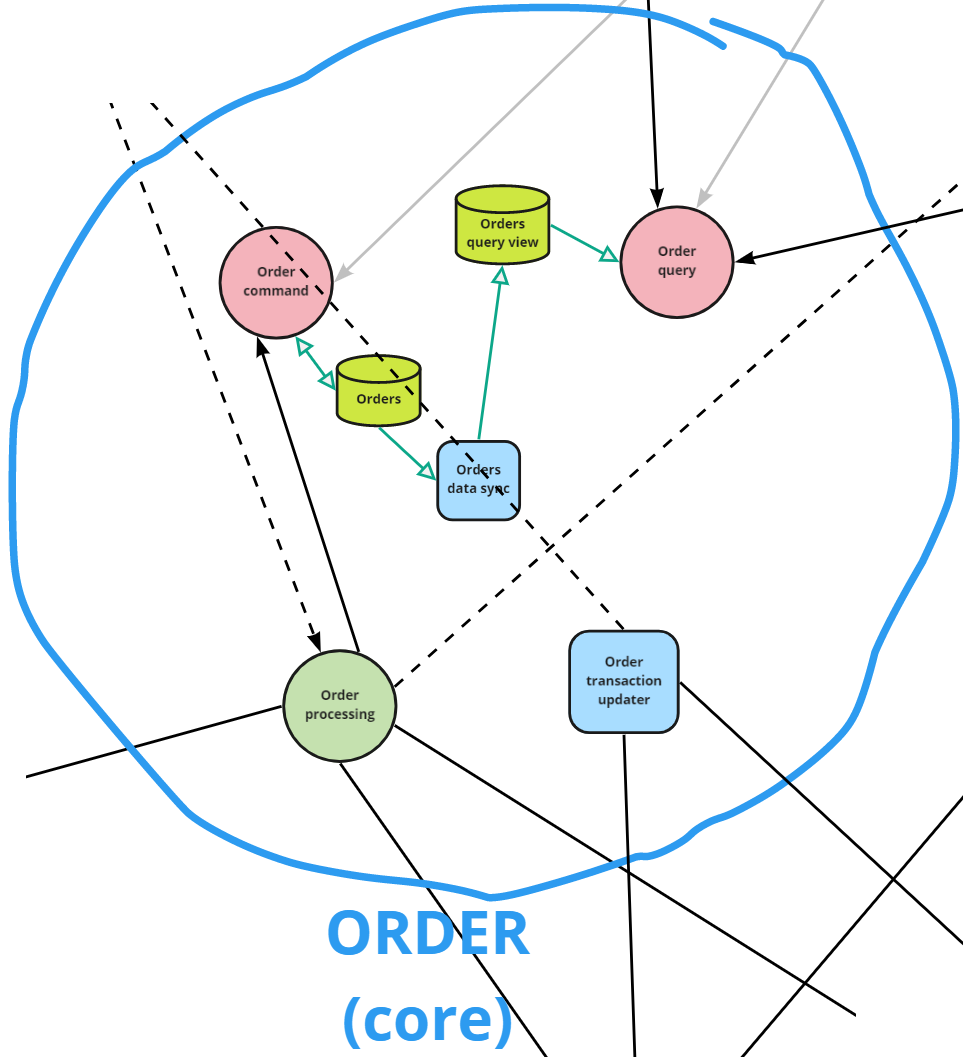
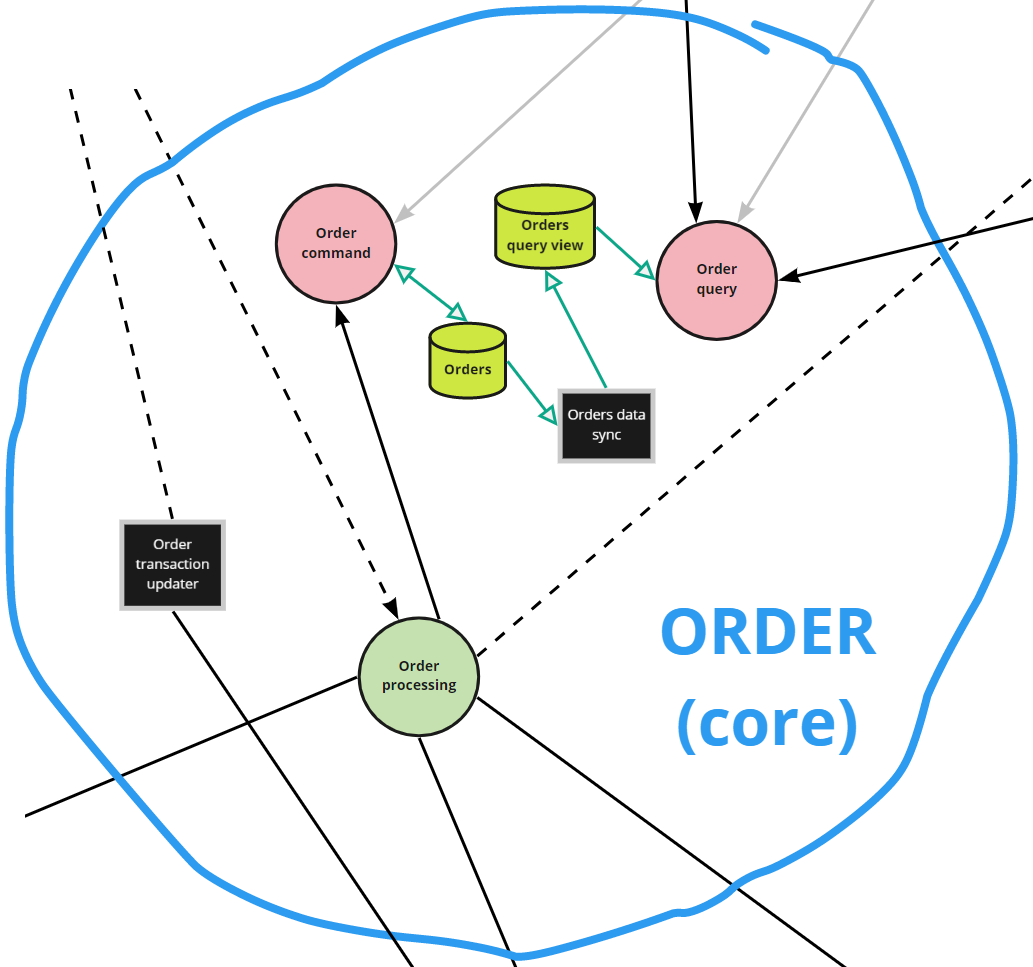
new symbol for batch program

diff --git a/README.md b/README.md
@@ -50,7 +50,7 @@ architecture styles.
 
 <table>
 <tr>
-    <td align="center"><a href="architecture/user-account-mgmt-microservice-view.md">User Account Management - microservice view<br><img src="images/user-account-mgmt-microservice-view-primary.png" width="200"></a></td>
+    <td align="center"><a href="architecture/user-account-mgmt-microservice-view.md">User Account Management - microservice view<br><img src="images/user-account-mgmt-microservice-view-primary.jpg" width="200"></a></td>
     <td align="center"><a href="architecture/catalog-microservice-view.md">Catalog - microservice view<br>
         <img src="images/catalog-microservice-view-primary.png" width="200"></a>
     </td>
@@ -66,7 +66,7 @@ architecture styles.
 <tr>
     <td colspan="2" align="center">
         <a href="architecture/replenish-microservice-eda-view.md">Replenisher - microservice and EDA view<br>
-        <img src="images/replenish-microservice-eda-view-primary.png" width="200"><img src="images/replenish-microservices-eda-state-machine.png" width="200">
+        <img src="images/replenish-microservice-eda-view-primary.jpg" width="200"><img src="images/replenish-microservices-eda-state-machine.png" width="200">
         </a>
     </td>
 </tr>

diff --git a/architecture/aws-deployment-view.md b/architecture/aws-deployment-view.md
@@ -5,7 +5,7 @@ instructions on how to configure a K8S cluster on EKS using docker images in ECR
 - This [AWS doc page](https://docs.aws.amazon.com/eks/latest/userguide/eks-networking.html) describes restrictions and
 guidelines for EKS topology.   
 
-![AWS deployment view](../images/aws-deployment-view-primary.png)
+![AWS deployment view](../images/aws-deployment-view-primary.jpg)
 
 
 ## Element Catalog 
@@ -64,7 +64,7 @@ implemented using various languages and frameworks. For example, we can use the 
 framework.  
 - The various SNS topics seen in the EDA architecture views shall be configured in SNS. 
 
-![AWS deployment view](../images/sns-topic-symbol.png)
+![AWS deployment view](../images/topic-symbol.png)
  
 #### Availability zone A, Availability zone B
 - An [availability zone](https://docs.aws.amazon.com/AWSEC2/latest/UserGuide/using-regions-availability-zones.html#concepts-availability-zones) 

diff --git a/architecture/order-microservice-eda-view.md b/architecture/order-microservice-eda-view.md
@@ -11,7 +11,7 @@ processing an order. Key patterns used:
 - CQRS
 - Publish-subscribe (in the event-driven architecture) 
 
-![Order runtime view](../images/order-microservice-eda-view-primary.png)
+![Order runtime view](../images/order-microservice-eda-view-primary.jpg)
 ![Notation key](../images/notation-key-microservice-views.png)
 
 
@@ -84,7 +84,7 @@ from the [catalog](catalog-microservice-view.md).
 be picked up at a smart fridge location. 
 * The diagram uses the UML Sequence Diagram notation, except that we used our component symbols up on top instead of
 UML objects.   
-![Order Sequence Diagram](../images/order-microservice-eda-view-sd.png)
+![Order Sequence Diagram](../images/order-microservice-eda-view-sd.jpg)
 
  
 ## Related ADRs 

diff --git a/architecture/ddd-context-map.md b/architecture/ddd-context-map.md
@@ -5,9 +5,9 @@
 This architecture view is a [DDD Context Map](https://learning.oreilly.com/library/view/patterns-principles-and/9781118714706/c07.xhtml). 
 It shows how the Farmacy Food system is broken up into bounded contexts (BCs) and how they interact with each other. 
 
-![DDD Context Map](../images/ddd-context-map.png)
+![DDD Context Map](../images/ddd-context-map.jpg)
 
-![DDD Context Map](../images/ddd-context-map-key.png)
+![DDD Context Map](../images/ddd-context-map-key.jpg)
 
 
 _Subdomains_ reflect and divide the areas of business that are of importance to our system. 

diff --git a/architecture/customer-pickup-microservice-eda-view.md b/architecture/customer-pickup-microservice-eda-view.md
@@ -11,7 +11,7 @@ This is a microservice architecture. Key patterns used:
 - CQRS
 - Publish-subscribe (in the event-driven architecture)
 
-![customer at pick-up location microservice and eda view](../images/customer-pickup-microservice-view-primary.png)
+![customer at pick-up location microservice and eda view](../images/customer-pickup-microservice-view-primary.jpg)
 ![Notation key](../images/notation-key-microservice-views.png)
 
 ## Element Catalog 

diff --git a/architecture/user-account-mgmt-microservice-view.md b/architecture/user-account-mgmt-microservice-view.md
@@ -9,7 +9,7 @@ This is a microservice architecture. Key patterns used:
 - Database per Microservice (aka Database per Service)
 - CQRS 
 
-![User account management runtime view](../images/user-account-mgmt-microservice-view-primary.png)
+![User account management runtime view](../images/user-account-mgmt-microservice-view-primary.jpg)
 ![Notation key](../images/notation-key-microservice-views.png)
 
 ## Element Catalog 

diff --git a/architecture/replenish-microservice-eda-view.md b/architecture/replenish-microservice-eda-view.md
@@ -7,7 +7,7 @@ This is a microservice architecture. Key patterns used:
 - Database per Microservice (aka Database per Service)
 - CQRS 
 
-![Replenisher microservice and eda view](../images/replenish-microservice-eda-view-primary.png)
+![Replenisher microservice and eda view](../images/replenish-microservice-eda-view-primary.jpg)
 ![Notation key](../images/notation-key-microservice-views.png)
 
 

diff --git a/architecture/catalog-microservice-view.md b/architecture/catalog-microservice-view.md
@@ -8,7 +8,7 @@ This is a microservice architecture. Key patterns used:
 - CQRS 
 - Wrapper (aka Legacy Wrapper, Anticorruption Layer)
 
-![Catalog runtime view](../images/catalog-microservice-view-primary.png)
+![Catalog runtime view](../images/catalog-microservice-view-primary.jpg)
 ![Notation key](../images/notation-key-microservice-views.png)
 
 ## Element Catalog 

diff --git a/architecture/context-diagram.md b/architecture/context-diagram.md
@@ -5,4 +5,4 @@ The goal of this context diagram is to show the **scope** of the designed softwa
 In the architecture views we find a description of the 
 external entities in the diagram, along with an explanation of their interaction with the system.
 
-![Context diagram](../images/context-diagram.png)
+![Context diagram](../images/context-diagram.jpg)
